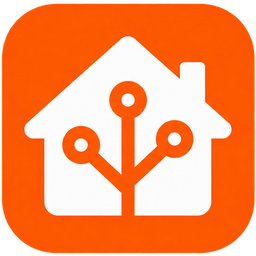
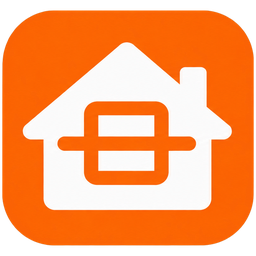
Rebuild brand assets from the fuse mark, and script the build
The artwork now puts a fuse inside the house rather than Home Assistant's
house-and-circuit mark, and keeps the orange rather than Home Assistant's
blue. That removes the reason the previous set would have been rejected
upstream: it is this project's own mark, not a recolour of theirs.

Adds brands/make_assets.py so the six files are derived from one source
lockup instead of being cut by hand. It finds the square mark by colour
rather than a fixed box, so a redraw that moves or resizes it still
works, and pads the icon to 1:1 rather than stretching it -- the mark is
647x605, so a naive resize to 256x256 would have squashed it.

Sizes change with the new lockup (logo 747x256, was 653x256); the icon
stays 256/512 as the spec requires.

diff --git a/brands/make_assets.py b/brands/make_assets.py
@@ -1,0 +1,101 @@
+#!/usr/bin/env python3
+"""Build the brands artwork from a single source lockup.
+
+Regenerates every file in `brands/fuse_energy/` at the sizes
+https://github.com/home-assistant/brands requires, so new artwork only has to be
+dropped in once:
+
+    python3 brands/make_assets.py path/to/lockup.png
+
+The source should be a landscape lockup -- square mark on the left, wordmark to
+the right -- as a PNG with a transparent background. Everything else is derived:
+
+  icon        the square mark alone, wordmark cut away, padded (never stretched)
+              to 1:1 because icons must be square
+  logo        the whole lockup, trimmed
+  dark_logo   the same with the near-black wordmark lightened, because a dark
+              wordmark disappears against Home Assistant's default dark theme
+
+Requires Pillow.
+"""
+from __future__ import annotations
+
+import sys
+from pathlib import Path
+
+from PIL import Image
+
+OUT = Path(__file__).resolve().parent / "fuse_energy"
+
+# The mark is found by colour rather than by a hard-coded box, so a redraw that
+# moves or resizes it still works.
+def _is_brand_colour(p: tuple[int, int, int, int]) -> bool:
+    r, g, b, a = p
+    return a > 200 and r > 180 and 50 < g < 165 and b < 95
+
+
+def _mark_box(im: Image.Image) -> tuple[int, int, int, int]:
+    """Bounding box of the square mark: the first contiguous run of brand colour."""
+    w, h = im.size
+    px = im.load()
+    cols = [x for x in range(w) if any(_is_brand_colour(px[x, y]) for y in range(h))]
+    rows = [y for y in range(h) if any(_is_brand_colour(px[x, y]) for x in range(w))]
+    if not cols or not rows:
+        raise SystemExit("no brand-coloured mark found — is the source transparent?")
+    x0 = x1 = cols[0]
+    for x in cols:                      # stop at the gap before the wordmark
+        if x <= x1 + 3:
+            x1 = x
+        else:
+            break
+    return x0, rows[0], x1, rows[-1]
+
+
+def _square(im: Image.Image, box: tuple[int, int, int, int], pad: int = 6) -> Image.Image:
+    """Crop the mark onto a transparent square canvas, preserving its proportions."""
+    x0, y0, x1, y1 = box
+    mark = im.crop((x0, y0, x1 + 1, y1 + 1))
+    side = max(mark.size) + pad * 2
+    canvas = Image.new("RGBA", (side, side), (0, 0, 0, 0))
+    canvas.paste(mark, ((side - mark.width) // 2, (side - mark.height) // 2), mark)
+    return canvas
+
+
+def _lighten_wordmark(im: Image.Image) -> Image.Image:
+    """Near-black pixels to near-white. The mark's own white and orange are untouched."""
+    out = im.copy()
+    px = out.load()
+    for y in range(out.height):
+        for x in range(out.width):
+            r, g, b, a = px[x, y]
+            if a > 30 and r < 90 and g < 90 and b < 90:
+                px[x, y] = (237, 240, 245, a)
+    return out
+
+
+def main() -> None:
+    if len(sys.argv) != 2:
+        raise SystemExit(__doc__)
+    src = Image.open(sys.argv[1]).convert("RGBA")
+    OUT.mkdir(parents=True, exist_ok=True)
+
+    icon = _square(src, _mark_box(src))
+    for size, name in ((256, "icon.png"), (512, "icon@2x.png")):
+        icon.resize((size, size), Image.LANCZOS).save(OUT / name, optimize=True)
+
+    lockup = src.crop(src.getbbox())
+    dark = _lighten_wordmark(lockup)
+    for height, light, darkname in ((256, "logo.png", "dark_logo.png"),
+                                    (512, "logo@2x.png", "dark_logo@2x.png")):
+        width = round(lockup.width * height / lockup.height)
+        lockup.resize((width, height), Image.LANCZOS).save(OUT / light, optimize=True)
+        dark.resize((width, height), Image.LANCZOS).save(OUT / darkname, optimize=True)
+
+    for f in sorted(OUT.iterdir()):
+        with Image.open(f) as im:
+            print(f"  {f.name:18} {im.size[0]:>4}x{im.size[1]:<4} {im.mode} "
+                  f"{f.stat().st_size // 1024}KB")
+
+
+if __name__ == "__main__":
+    main()

diff --git a/brands/README.md b/brands/README.md
@@ -8,19 +8,33 @@ so it can be submitted without reprocessing.
 | --- | --- | --- |
 | `fuse_energy/icon.png` | 256×256 | icons must be 1:1 |
 | `fuse_energy/icon@2x.png` | 512×512 | hDPI icon |
-| `fuse_energy/logo.png` | 653×256 | logo, shortest side 128–256 |
-| `fuse_energy/logo@2x.png` | 1306×512 | hDPI logo, shortest side 256–512 |
-| `fuse_energy/dark_logo.png` | 653×256 | wordmark lightened for dark themes |
-| `fuse_energy/dark_logo@2x.png` | 1306×512 | hDPI dark logo |
+| `fuse_energy/logo.png` | 747×256 | logo, shortest side 128–256 |
+| `fuse_energy/logo@2x.png` | 1494×512 | hDPI logo, shortest side 256–512 |
+| `fuse_energy/dark_logo.png` | 747×256 | wordmark lightened for dark themes |
+| `fuse_energy/dark_logo@2x.png` | 1494×512 | hDPI dark logo |
 
 All are PNG with transparency and trimmed of surrounding whitespace. The icon is
-the square mark with the wordmark cut away; the logo is the full lockup.
+the square mark with the wordmark cut away, padded to 1:1 rather than stretched,
+so the mark keeps its proportions.
 
-A `dark_` pair exists because the wordmark is near-black, which vanishes against
-Home Assistant's default dark theme. The icon needs no dark variant — the orange
-field reads on both.
+A `dark_` pair exists because the wordmark is near-black and would otherwise
+disappear against Home Assistant's default dark theme. The icon needs no dark
+variant — the orange field reads on both.
 
-## Before submitting these upstream
+## Regenerating
+
+Do not edit these by hand. Drop in new artwork — a landscape lockup with the
+square mark on the left and the wordmark to the right, transparent background —
+and run:
+
+```sh
+python3 brands/make_assets.py path/to/lockup.png
+```
+
+Every file above is derived from that one source, so the sizes stay correct and
+the icon and logo cannot drift apart. Requires Pillow.
+
+## Submitting upstream
 
 The brands repository states:
 
@@ -28,15 +42,17 @@ The brands repository states:
 > confuse the end-user into thinking that the integration is an internal/official
 > integration.
 
-The mark in this artwork is Home Assistant's house-and-circuit logo. As it
-stands, a pull request adding these to `home-assistant/brands` should be
-expected to fail review on that rule, and the confusion it guards against is
-real: this integration is unofficial and unaffiliated with both Fuse and Home
-Assistant.
+The current artwork puts a **fuse** inside the house, not Home Assistant's
+house-and-circuit mark, and uses orange rather than Home Assistant's blue — so
+it is the project's own mark, not a recolour of theirs. An earlier draft did use
+the circuit mark and was replaced for exactly this reason.
 
-Artwork built on Fuse Energy's own mark would not have that problem, and is what
-every other supplier integration uses.
+What remains shared is a house glyph in a rounded square, which is a common
+idiom rather than anything exclusive. That is a judgement for the brands
+reviewers to make, but the rule's actual concern — a user mistaking this for an
+official integration — is not raised by a fuse symbol.
 
 Nothing depends on this either way. Until a domain is registered in the brands
 repository, Home Assistant shows a generic placeholder, which is the current
-behaviour — see the `ignore: brands` note in `.github/workflows/validate.yml`.
+behaviour — see the `ignore: brands` note in `.github/workflows/validate.yml`,
+which should be removed once a brands pull request is merged.
